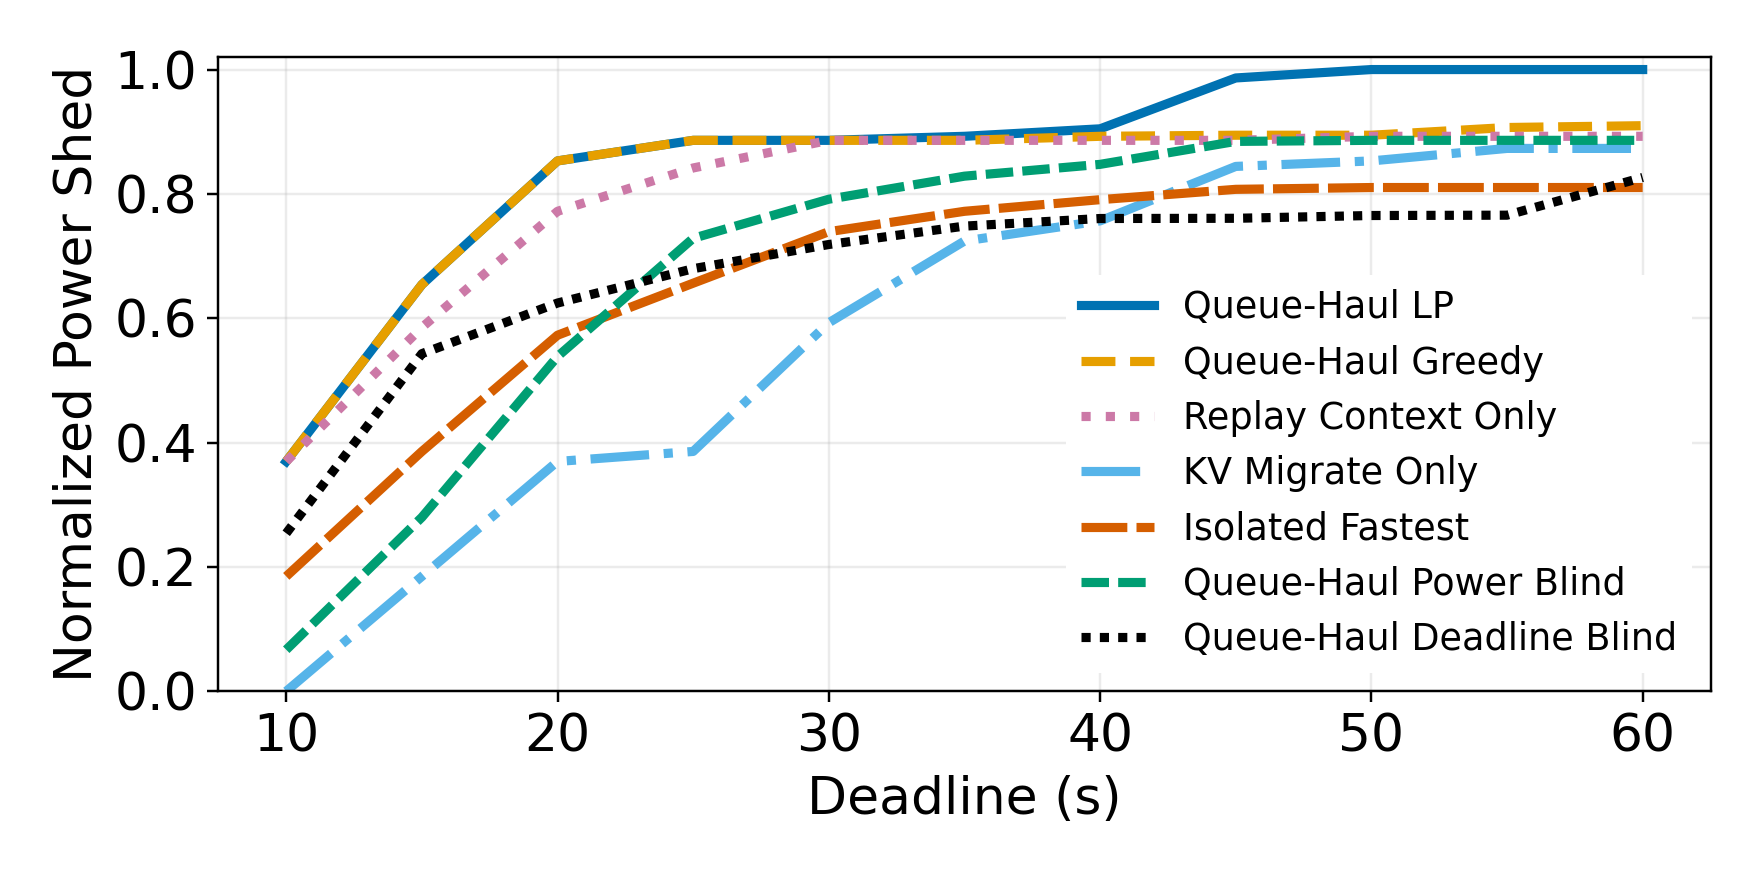
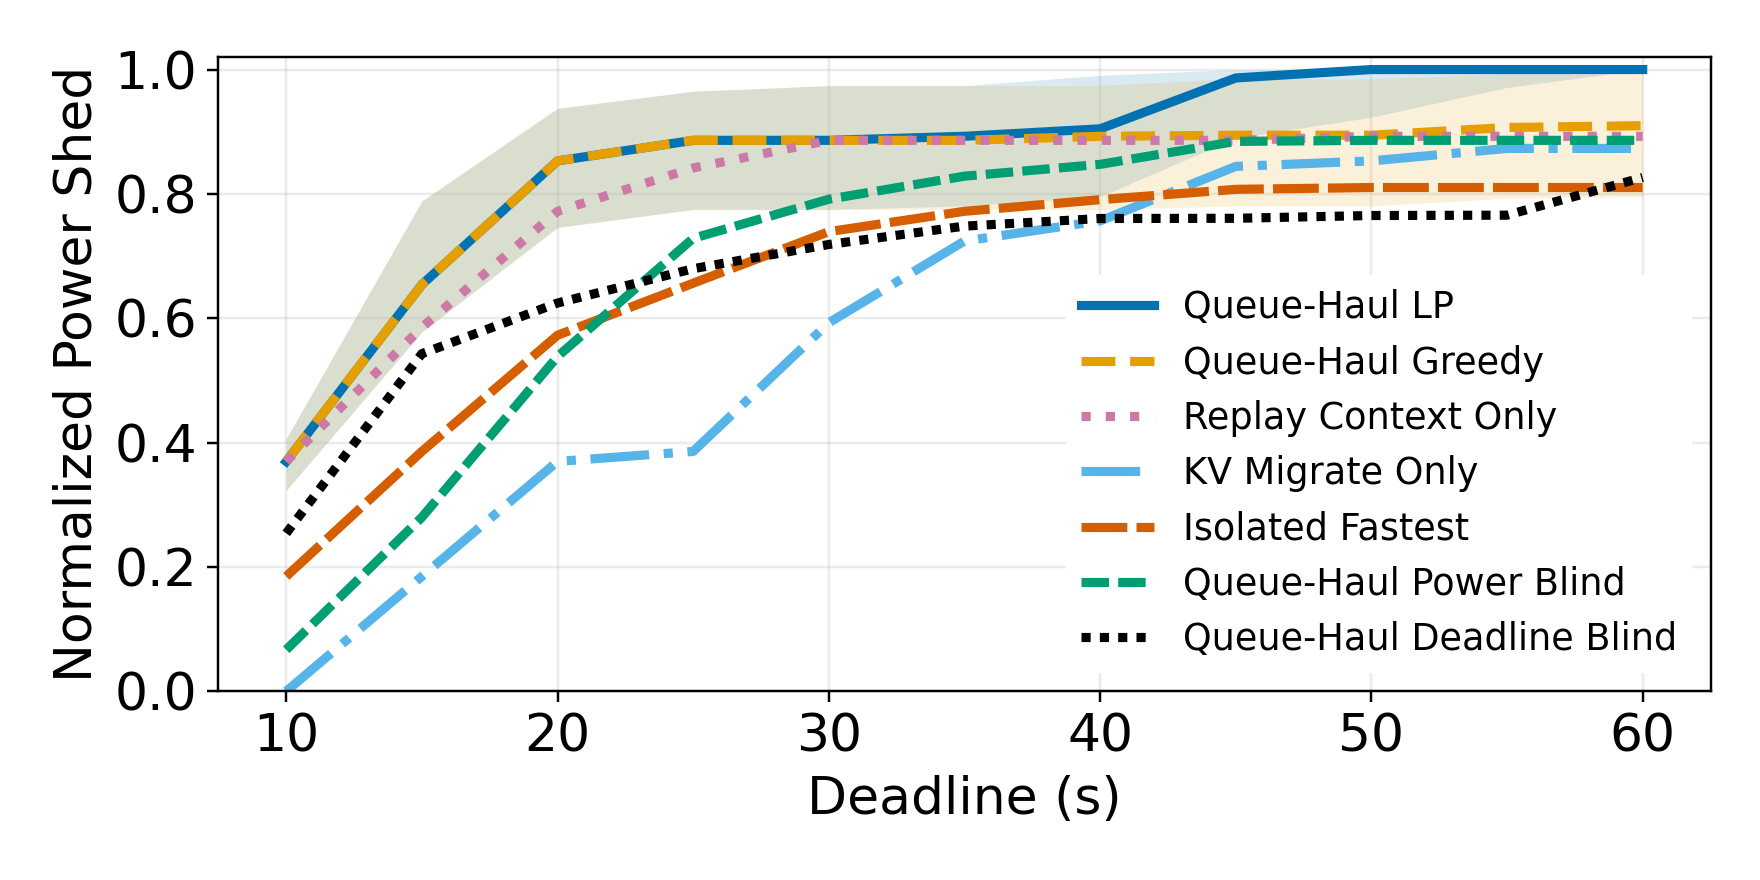
Add confidence ribbons to stress frontier

Changed region(s): [[0.1562, 0.0614, 0.9375, 0.5523]]

diff --git a/agent-migrate/queue-haul/stress_frontier_campaign.py b/agent-migrate/queue-haul/stress_frontier_campaign.py
@@ -27,6 +27,9 @@ DEADLINES = tuple(range(10, 61, 5))
 GREEDY_SOLVER = "greedy_best_effort"
 LP_SOLVER = "lp_work_first_best_effort"
 POWER_BLIND_SOLVER = "lp_power_blind_best_effort"
+CONFIDENCE_DRAWS = 10_000
+CONFIDENCE_SEED = 1
+CONFIDENCE_POLICIES = ("queue_haul", "greedy")
 REGIMES = (
     ("jointly-binding", .75, .90, "controlled_40"),
     ("bandwidth-only", .25, 0, "controlled_40"),
@@ -150,6 +153,24 @@ def fifth_smallest(values) -> float:
     if len(values) != 40:
         raise ValueError("90% suite coverage requires exactly 40 states")
     return values[4]
+
+
+def normalized_confidence_intervals(values, regimes, draws=CONFIDENCE_DRAWS):
+    values, regimes = np.asarray(values, float), np.asarray(regimes)
+    groups = [np.flatnonzero(regimes == name) for name, *_ in REGIMES]
+    if values.ndim != 2 or values.shape[1] != 40 \
+            or any(len(group) != 8 for group in groups) or draws < 1:
+        raise ValueError("confidence intervals require eight states per regime")
+    rng = np.random.default_rng(CONFIDENCE_SEED)
+    samples = np.concatenate([
+        group[rng.integers(0, len(group), size=(draws, len(group)))]
+        for group in groups
+    ], axis=1)
+    bootstrap = np.partition(values[:, samples], 4, axis=2)[:, :, 4]
+    maximum = bootstrap.max(axis=0)
+    if np.any(maximum <= 0):
+        raise ValueError("confidence intervals require positive attainment")
+    return np.quantile(bootstrap / maximum, (.025, .975), axis=1).T
 
 
 def _best_outcome(outcomes):
@@ -278,25 +299,43 @@ def reduce(results_paths: list[Path], out: Path, promotion: dict | None = None) 
     for results_path in results_paths:
         with results_path.open(newline="") as handle:
             rows.extend(csv.DictReader(handle))
-    grouped, frontier, best = {}, [], {}
+    grouped, attained_by_state, regimes, frontier, best = {}, {}, {}, [], {}
     empirical = bool(promotion and promotion.get("passed"))
     for row in sorted(rows, key=lambda value: int(value["deadline_s"])):
-        state = row["state_id"], row["policy"]
+        state_id, policy = row["state_id"], row["policy"]
+        if state_id in regimes and regimes[state_id] != row["regime"]:
+            raise ValueError("a stress state changed regime")
+        regimes[state_id] = row["regime"]
+        state = state_id, policy
         attained = max(float(row["shed_by_deadline_w"]),
                        best.get(state, float("-inf")))
         best[state] = attained
-        grouped.setdefault((int(row["deadline_s"]), row["policy"]), []).append(attained)
+        cell = int(row["deadline_s"]), policy
+        grouped.setdefault(cell, []).append(attained)
+        attained_by_state[cell + (state_id,)] = attained
     expected = {(deadline, policy) for deadline in DEADLINES
                 for policy in POLICIES}
     if set(grouped) != expected:
         raise ValueError("incomplete stress frontier results")
-    for deadline, policy in sorted(grouped):
-        frontier.append({"deadline_s": deadline, "policy": policy,
-                         "coverage_90_shed_w": fifth_smallest(grouped[deadline, policy]),
-                         "states": 40, "claim": ("empirical deadline-shed frontier"
-                                                  if empirical else
-                                                  "modeled stress-suite sensitivity")})
+    states, cells = sorted(regimes), sorted(grouped)
+    intervals = dict(zip(cells, normalized_confidence_intervals(
+        [[attained_by_state[cell + (state,)] for state in states] for cell in cells],
+        [regimes[state] for state in states],
+    )))
+    for deadline, policy in cells:
+        row = {"deadline_s": deadline, "policy": policy,
+               "coverage_90_shed_w": fifth_smallest(grouped[deadline, policy]),
+               "states": 40, "claim": ("empirical deadline-shed frontier"
+                                        if empirical else
+                                        "modeled stress-suite sensitivity")}
+        if policy in CONFIDENCE_POLICIES:
+            row["normalized_coverage_90_ci_low"], \
+                row["normalized_coverage_90_ci_high"] = intervals[deadline, policy]
+        frontier.append(row)
     value = {"schema": "queue-haul-stress-frontier-v1", "empirical": empirical,
+             "confidence": {"level": .95, "draws": CONFIDENCE_DRAWS,
+                            "method": "regime-stratified trajectory bootstrap",
+                            "seed": CONFIDENCE_SEED},
              "frontier": frontier}
     if promotion is not None:
         value["promotion"] = promotion
@@ -315,7 +354,15 @@ def _plot(frontier: list[dict], stem: Path) -> None:
                   if row["policy"] in POLICIES)
     for policy in POLICIES:
         selected = [row for row in frontier if row["policy"] == policy]
-        ax.plot([row["deadline_s"] for row in selected],
+        deadlines = [row["deadline_s"] for row in selected]
+        if policy in CONFIDENCE_POLICIES:
+            ax.fill_between(
+                deadlines,
+                [row["normalized_coverage_90_ci_low"] for row in selected],
+                [row["normalized_coverage_90_ci_high"] for row in selected],
+                color=plot_style.POLICY_COLORS[policy], alpha=.15, linewidth=0,
+            )
+        ax.plot(deadlines,
                 [row["coverage_90_shed_w"] / maximum for row in selected],
                 **plot_style.policy_style(policy))
     ax.set(xlabel="Deadline (s)", ylabel="Normalized Power Shed", ylim=(0, 1.02))

diff --git a/agent-migrate/queue-haul/tests/test_stress_frontier_campaign.py b/agent-migrate/queue-haul/tests/test_stress_frontier_campaign.py
@@ -2,7 +2,9 @@
 Claim:
 The stress-frontier plot scales every policy by their shared maximum, and
 uses the hardware-attainment figure's canonical wide presentation without a
-title while naming the plotted quantity normalized power shed. Queue-Haul
+title while naming the plotted quantity normalized power shed. Its unlabelled
+95% confidence ribbons resample whole trajectories within each regime and
+renormalize every draw by its shared maximum. Queue-Haul
 plans with the LP rather than an exact MILP. Every state labeled as
 a power bootstrap samples a measured curve or a joint analytic parameter draw.
 The Queue-Haul row retains the better fully simulated LP or greedy deadline power.
@@ -11,6 +13,8 @@ Plausible wrong implementations:
 - Normalize each policy independently.
 - Retain the stale modeled title or label the y-axis as generic attainment.
 - Revert to a tall canvas, small type, or noncanonical policy colors.
+- Pool regimes, bootstrap means, or normalize confidence limits independently.
+- Add confidence ribbons to the legend.
 - Resolve the Queue-Haul policy to the exact max-shed MILP.
 - Silently reuse one central power curve for every bootstrap state.
 - Let power-bootstrap cardinality reshuffle the timing Latin hypercube.
@@ -59,10 +63,19 @@ def test_coverage_is_fifth_smallest_of_40():
         campaign.fifth_smallest(range(39))
 
 
+def test_confidence_intervals_stratify_fifth_smallest_and_shared_maximum():
+    regimes = [name for name, *_ in campaign.REGIMES for _ in range(8)]
+    values = [[value for value in (1, 100, 100, 100, 100) for _ in range(8)],
+              [2] * 40]
+    assert campaign.normalized_confidence_intervals(values, regimes, 100).tolist() \
+        == [[.5, .5], [1, 1]]
+
+
 def test_reduction_labels_unpromoted_frontier_as_modeled(tmp_path, monkeypatch):
     path = tmp_path / "results.csv"
     rows = [{"deadline_s": deadline, "policy": policy, "state_id": str(state),
-             "shed_by_deadline_w": state}
+             "regime": campaign.REGIMES[state // 8][0],
+             "shed_by_deadline_w": state + 1}
             for deadline in campaign.DEADLINES
             for policy in campaign.POLICIES
             for state in range(40)]
@@ -73,7 +86,7 @@ def test_reduction_labels_unpromoted_frontier_as_modeled(tmp_path, monkeypatch):
     monkeypatch.setattr(campaign, "_plot", lambda *_args: None)
     result = campaign.reduce([path], tmp_path / "frontier.json", {"passed": False})
     assert not result["empirical"]
-    assert {row["coverage_90_shed_w"] for row in result["frontier"]} == {4}
+    assert {row["coverage_90_shed_w"] for row in result["frontier"]} == {5}
     assert {row["claim"] for row in result["frontier"]} == {
         "modeled stress-suite sensitivity"}
 
@@ -81,6 +94,7 @@ def test_reduction_labels_unpromoted_frontier_as_modeled(tmp_path, monkeypatch):
 def test_reduction_carries_tighter_deadline_plans_forward(tmp_path, monkeypatch):
     path = tmp_path / "results.csv"
     rows = [{"deadline_s": deadline, "policy": policy, "state_id": str(state),
+             "regime": campaign.REGIMES[state // 8][0],
              "shed_by_deadline_w": 10 if policy == "queue_haul" and deadline == 10 else 0}
             for deadline in campaign.DEADLINES
             for policy in campaign.POLICIES
@@ -100,7 +114,10 @@ def test_reduction_carries_tighter_deadline_plans_forward(tmp_path, monkeypatch)
 def test_plot_normalizes_to_the_shared_maximum(tmp_path, monkeypatch):
     values = range(2, 2 * len(campaign.POLICIES) + 1, 2)
     rows = [{"deadline_s": 10, "policy": policy,
-             "coverage_90_shed_w": value}
+             "coverage_90_shed_w": value,
+             **({"normalized_coverage_90_ci_low": 0,
+                 "normalized_coverage_90_ci_high": 1}
+                if policy in campaign.CONFIDENCE_POLICIES else {})}
             for policy, value in zip(campaign.POLICIES, values)]
     lines = []
     monkeypatch.setattr(campaign.plot_style, "policy_style", lambda policy: {})
@@ -115,9 +132,14 @@ def test_plot_normalizes_to_the_shared_maximum(tmp_path, monkeypatch):
 def test_plot_matches_hardware_attainment_presentation(tmp_path, monkeypatch):
     import matplotlib.pyplot as plt
     monkeypatch.setattr(plt, "close", lambda _: None)
-    rows = [{"deadline_s": 10, "policy": policy,
-             "coverage_90_shed_w": value}
-            for value, policy in enumerate(campaign.POLICIES, 1)]
+    rows = []
+    for value, policy in enumerate(campaign.POLICIES, 1):
+        row = {"deadline_s": 10, "policy": policy,
+               "coverage_90_shed_w": value}
+        if policy in campaign.CONFIDENCE_POLICIES:
+            row.update(normalized_coverage_90_ci_low=.1,
+                       normalized_coverage_90_ci_high=.9)
+        rows.append(row)
 
     campaign._plot(rows, tmp_path / "frontier")
 
@@ -131,6 +153,8 @@ def test_plot_matches_hardware_attainment_presentation(tmp_path, monkeypatch):
     assert ax.xaxis.label.get_fontsize() == campaign.plot_style.LARGE_FONT_SIZE
     assert [line.get_color() for line in ax.lines] == [
         campaign.plot_style.POLICY_COLORS[policy] for policy in campaign.POLICIES]
+    assert len(ax.collections) == 2
+    assert all(collection.get_label().startswith("_") for collection in ax.collections)
     assert legend._loc == 4
     assert legend._ncols == 1
     assert legend.get_frame().get_alpha() == 1

diff --git a/agent-migrate/queue-haul/README.md b/agent-migrate/queue-haul/README.md
@@ -1392,7 +1392,8 @@ the destination-locked behavior.
 
 Stress-frontier figures omit the modeled MILP reference and normalize every
 displayed policy to the shared maximum 90%-coverage shed. The y-axis reports
-this quantity as normalized power shed.
+this quantity as normalized power shed; the LP and greedy curves carry
+unlabelled 95% regime-stratified trajectory-bootstrap confidence ribbons.
 
 Rebuild them with:
 
